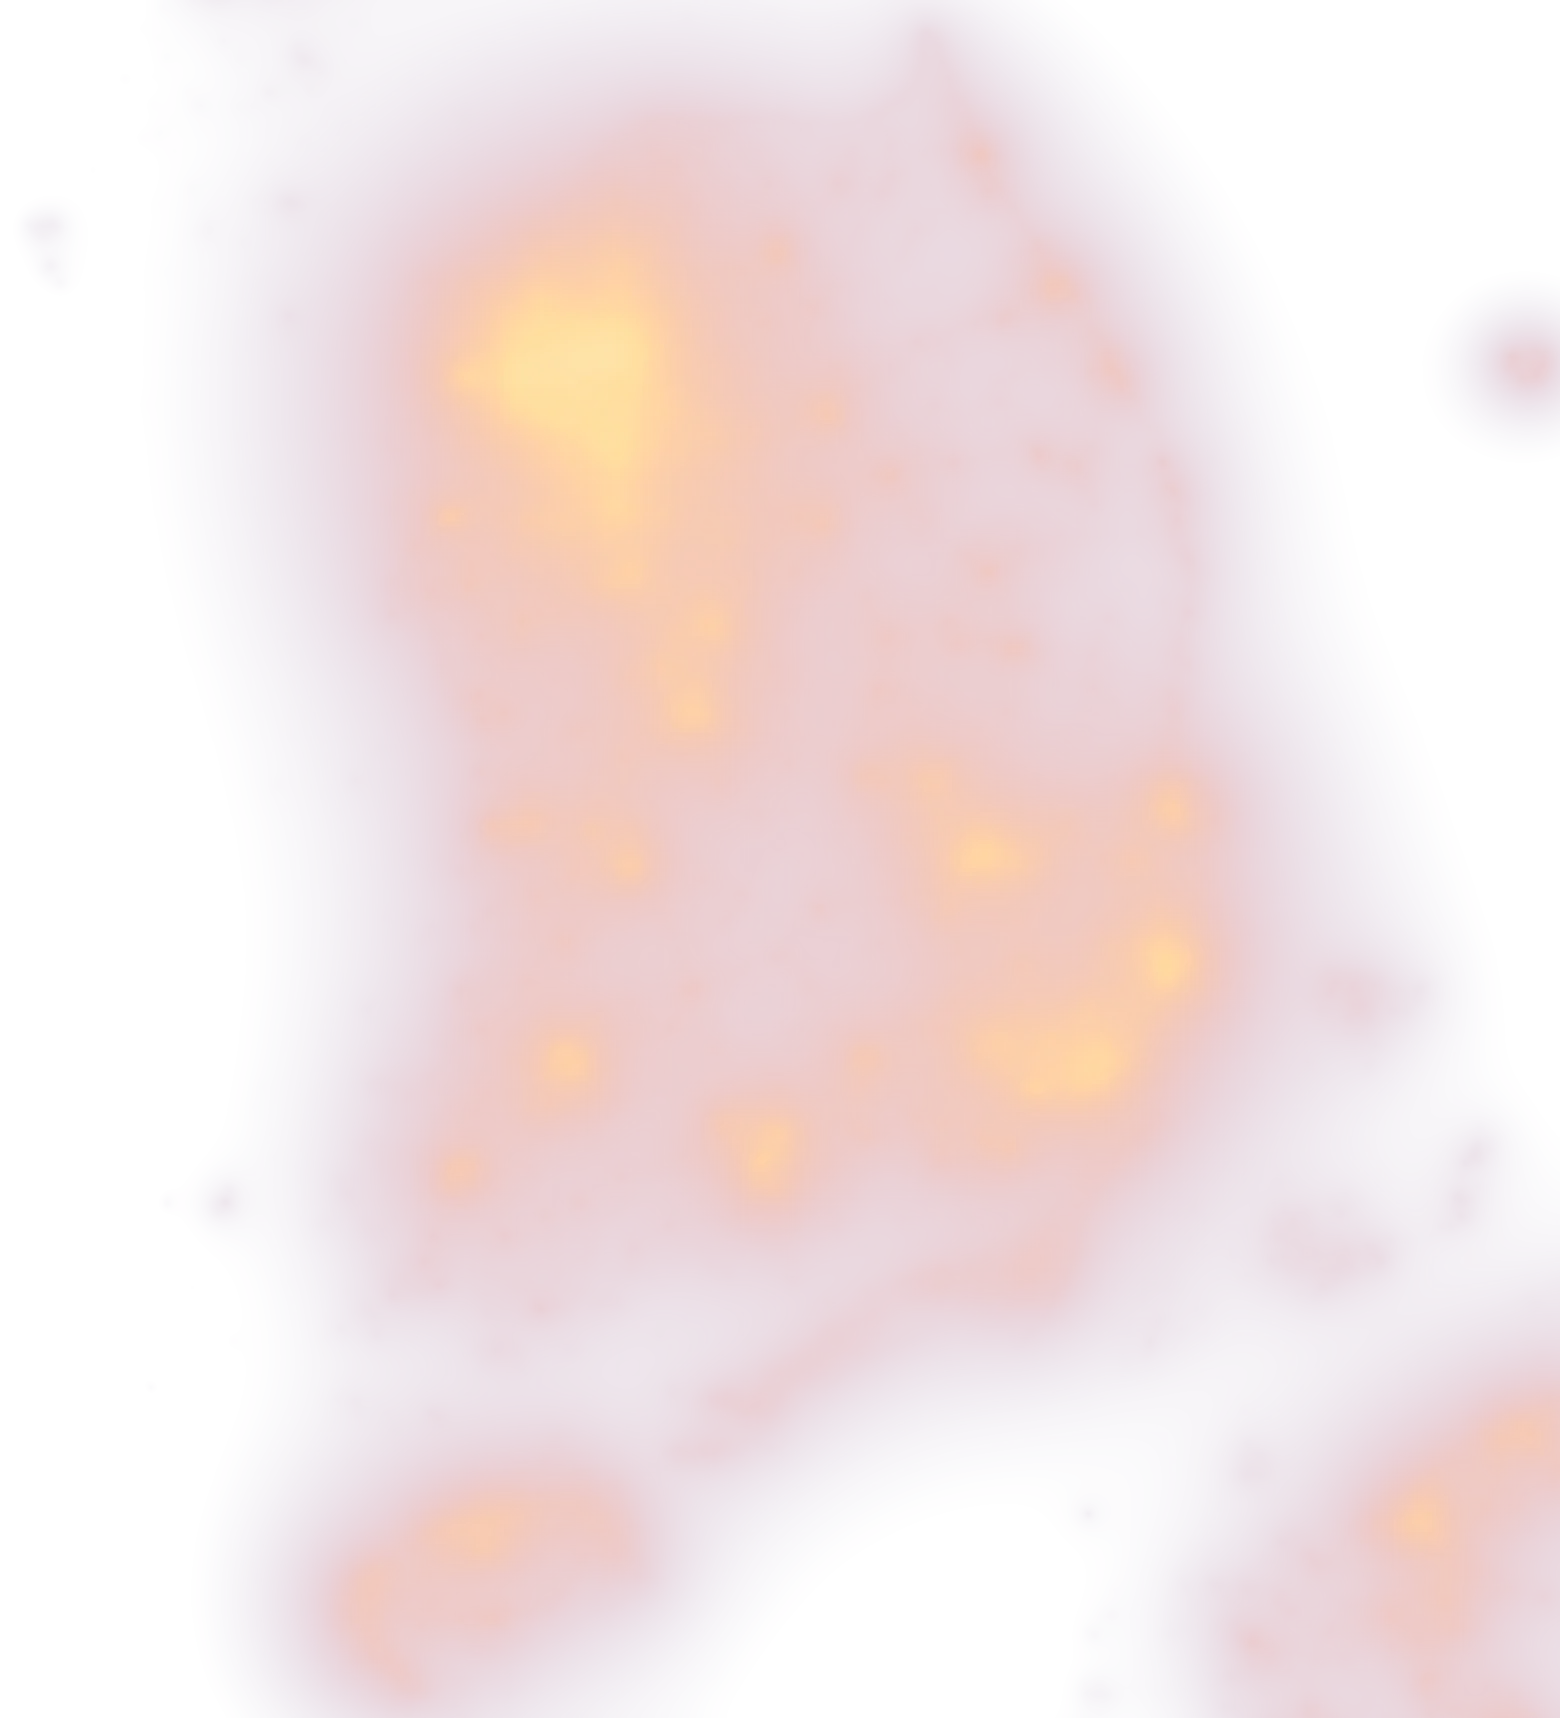
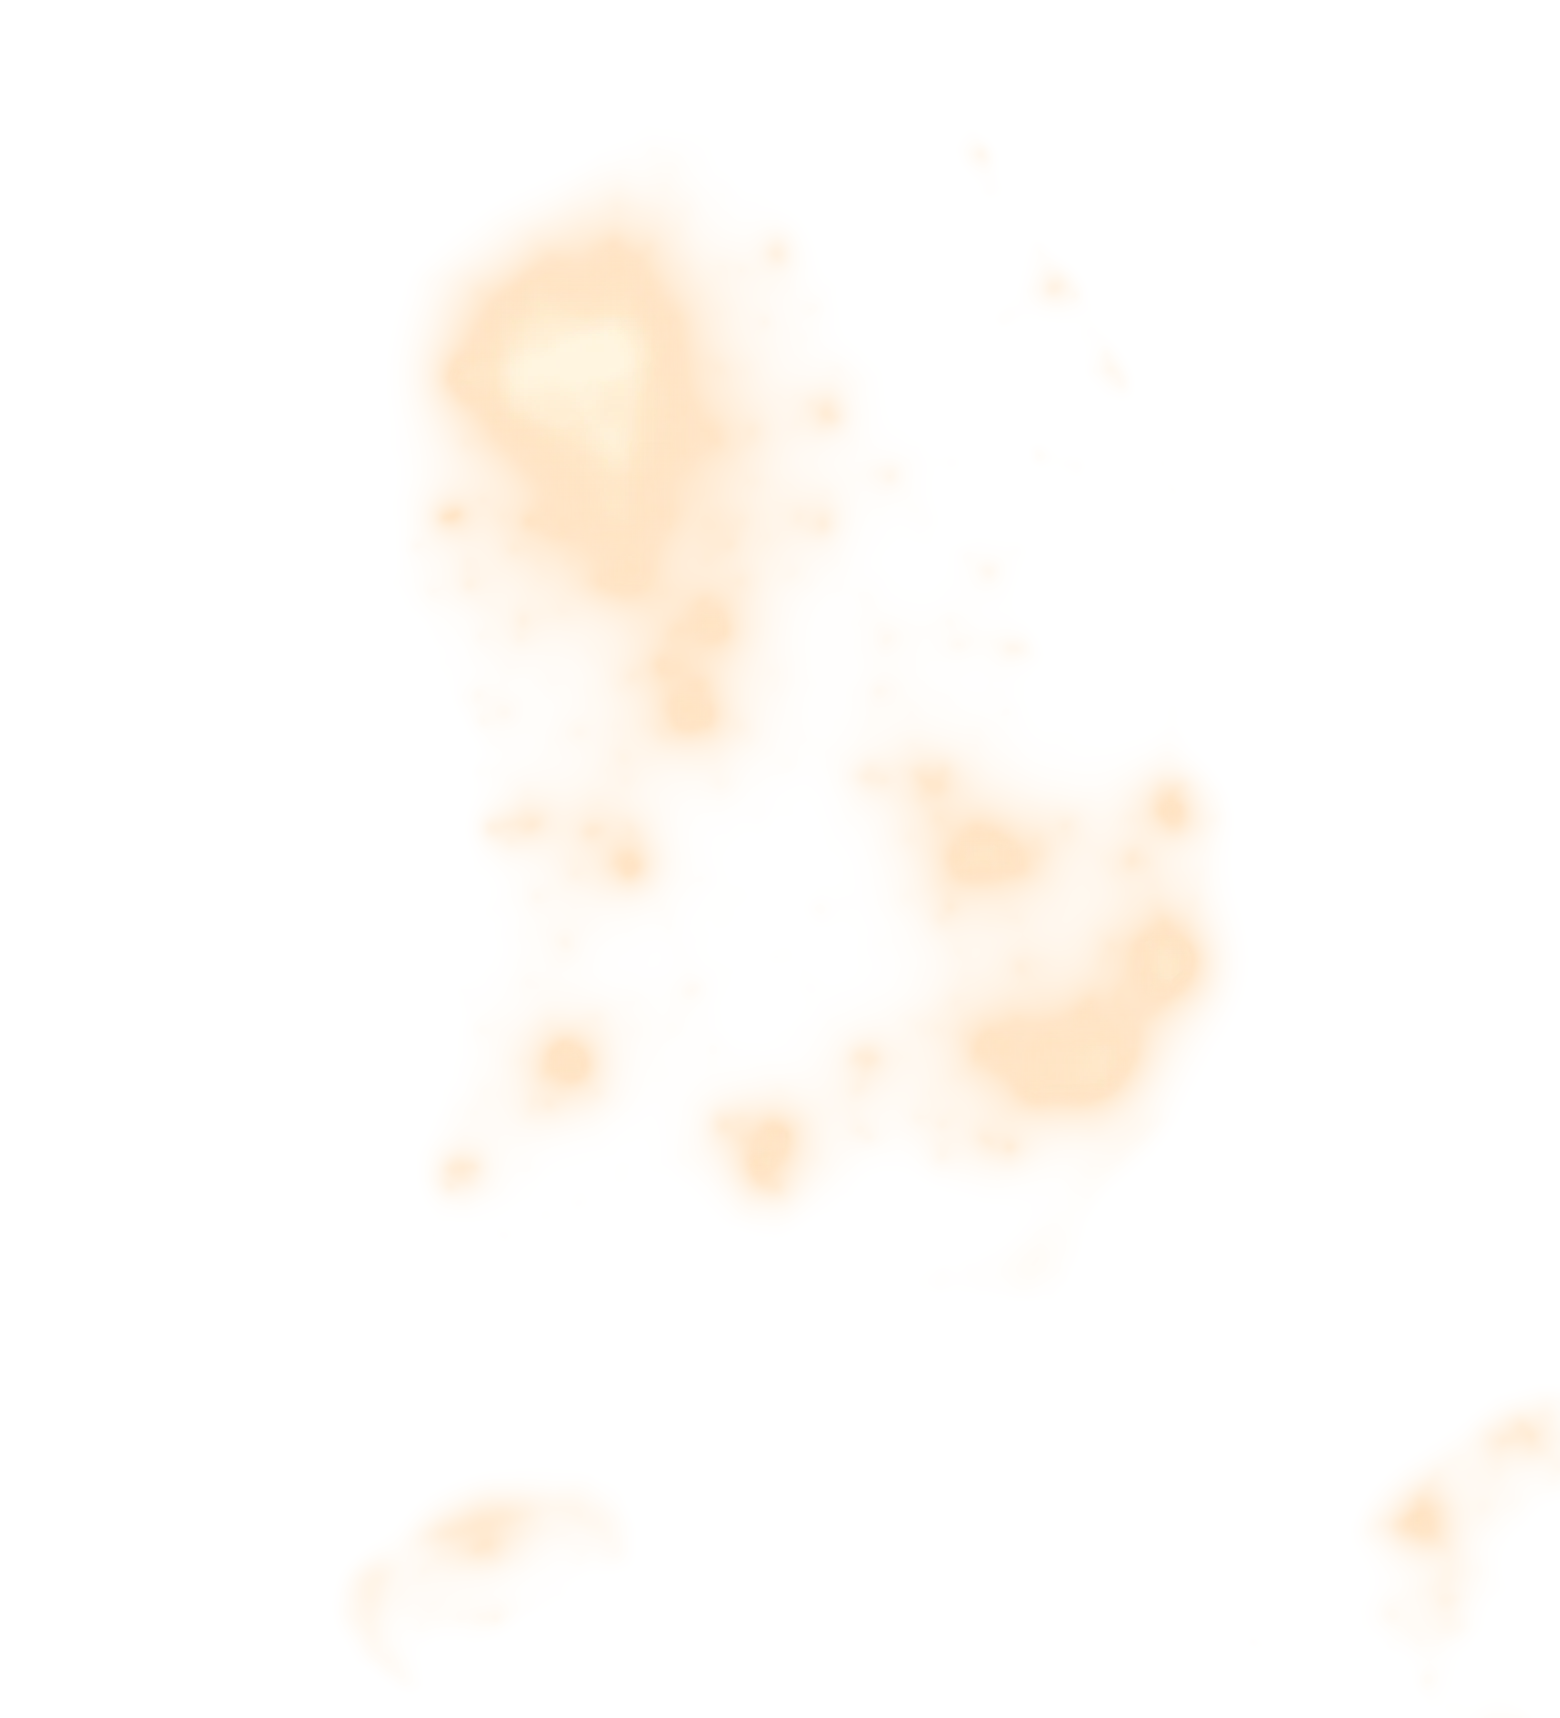
fix: 광해 지도가 뿌옇게 덮이지 않도록 어두운 곳은 비우고 밝은 곳만 빛나게 그린다
- 한국 내륙의 70%가 ALR 2~10이라, 다섯 칸 눈금 그대로 칠하면 국토 전체에 탁한 보라·갈색 막이 덮여 황사처럼 보였다
- ALR 3 아래는 칠하지 않아 어두운 곳은 바탕 지도 그대로 두고, 3에서 60까지를 로그로 펴 불투명도를 1.8제곱으로 올린다
- 색은 예전 불빛 그림처럼 호박색에서 가장 밝은 곳만 흰빛으로 가게 하고, 범례의 은하수 경계를 새 눈금의 자리(40%)로 옮긴다

diff --git a/lib/tonight/sources.ts b/lib/tonight/sources.ts
@@ -174,7 +174,7 @@ export const SOURCES: readonly SourceEntry[] = [
   },
   {
     title: "지도",
-    body: "광해 지도는 장소마다 보여 드리는 하늘 밝기와 같은 계산값으로 별볼일이 직접 그렸어요. 색의 눈금은 장소 카드의 다섯 칸 눈금과 같은 자리를 써요. 하늘 밝기는 둘레 수백 km의 불빛이 하늘에 번진 정도라 지도에서도 넓게 번져 보이고, 산이 가려 주는 불빛은 이 지도에 나오지 않아요. 바탕 지도는 OpenStreetMap 자료로 만든 OpenFreeMap의 지도예요. 구름 레이어는 구름의 모양을 그리지 않고, 고른 시각에 각 장소의 예보 구름량만 색으로 보여줘요.",
+    body: "광해 지도는 장소마다 보여 드리는 하늘 밝기와 같은 계산값으로 별볼일이 직접 그렸어요. 어두운 곳(인공 불빛이 자연의 3배 아래)은 칠하지 않고 비워 둬서, 지도에서 까맣게 남은 곳이 하늘이 어두운 곳이에요. 하늘 밝기는 둘레 수백 km의 불빛이 하늘에 번진 정도라 지도에서도 넓게 번져 보이고, 산이 가려 주는 불빛은 이 지도에 나오지 않아요. 바탕 지도는 OpenStreetMap 자료로 만든 OpenFreeMap의 지도예요. 구름 레이어는 구름의 모양을 그리지 않고, 고른 시각에 각 장소의 예보 구름량만 색으로 보여줘요.",
     links: [
       { label: "VIIRS Nighttime Lights 2024, Earth Observation Group, Payne Institute", url: "https://eogdata.mines.edu/products/vnl/" },
       { label: "OpenFreeMap", url: "https://openfreemap.org/" },

diff --git a/components/tonight/tonight.css b/components/tonight/tonight.css
@@ -2006,12 +2006,12 @@
   /* scripts/render_sky_overlay.py가 출력하는 범례 색. 지도 그림을 다시 만들면 함께 바꾼다 */
   .ramp.night {
     position: relative;
-    background: linear-gradient(90deg, #0b0f22 0%, #111228 20%, #37263b 40%, #7d5551 60%, #cfaf73 80%, #e2dcc7 100%);
+    background: linear-gradient(90deg, #0b0f22 0%, #1d1c27 25%, #4a3b34 50%, #8e765f 75%, #e7ddc9 100%);
   }
-  /* 은하수가 보이지 않게 되는 하늘 밝기(ALR 10). 다섯 칸 눈금의 세 번째 경계라서 60%에 온다 */
+  /* 은하수가 보이지 않게 되는 하늘 밝기(ALR 10)의 자리. 스크립트가 출력하는 값이다 */
   .ramp.night .edge {
     position: absolute;
-    left: 60%;
+    left: 40%;
     top: -3px;
     bottom: -3px;
     width: 1.5px;
@@ -2022,7 +2022,7 @@
   }
   .rl.night .edge-label {
     position: absolute;
-    left: 60%;
+    left: 40%;
     padding-left: 4px;
   }
   .ramp.cloud {

diff --git a/scripts/render_sky_overlay.py b/scripts/render_sky_overlay.py
@@ -6,9 +6,10 @@
 지도의 색과 장소 카드의 하늘 밝기가 같은 값에서 나온다. 형식은 백엔드 저장소의 scripts/lightpollution/export_grid.py에
 적혀 있고, 값은 하늘 전체에서 평균한 인공 불빛이 자연 밤하늘 밝기의 몇 배인지(ALR)다.
 
-색은 lib/tonight/sky.ts의 skyScalePosition과 같은 눈금으로 정한다. 다섯 등급(경계 0.33, 2, 10, 50)에 한 칸씩을 주고
-칸 안에서는 밝기의 로그로 자리를 잡는다. 그래서 장소 카드의 다섯 칸 눈금과 지도의 색이 같은 자리를 가리킨다.
-경계값과 그 출처는 백엔드 저장소 docs/SCORING.md의 "광해" 절에 있다. 색 자체는 보기 좋게 고른 것이다.
+한국 내륙은 70%가 ALR 2~10이라, 그 구간을 옅게라도 칠하면 국토 전체에 뿌연 막이 덮인다. 그래서 ALR 3 아래는 비워
+두고(어두운 곳은 지도 바탕 그대로 어둡다), 3에서 60까지를 로그로 펴서 불투명도를 2제곱에 가깝게 올린다. 빛은 호박색에서
+가장 밝은 곳만 흰빛으로 간다. 이 범위와 곡선은 보기 좋게 고른 그림의 값이고 등급의 경계가 아니다. 등급의 경계는 백엔드
+저장소 docs/SCORING.md의 "광해" 절에 있고, 범례에는 그중 은하수가 보이지 않게 되는 ALR 10의 자리를 표시한다.
 
 MapLibre의 image 소스는 네 귀퉁이 좌표 사이를 웹 메르카토르 평면에서 선형으로 늘린다. 그래서 그림의 세로축은 위도가
 아니라 메르카토르 y에 비례하게 그린다. 범위는 격자의 범위를 그대로 쓰고, 끝에 그 범위를 출력한다.
@@ -62,66 +63,39 @@ value = (log_alr[R, C] * (1 - fx) + log_alr[R, C + 1] * fx) * (1 - fy) \
     + (log_alr[R + 1, C] * (1 - fx) + log_alr[R + 1, C + 1] * fx) * fy
 alr = 10 ** value
 
-# lib/tonight/sky.ts의 눈금. 양 끝 0.05와 250 사이에 등급 경계 넷을 둔다
-EDGES = [0.05, 0.33, 2, 10, 50, 250]
+LOW, HIGH = 3, 60  # 이 사이를 로그로 편다. LOW 아래는 투명, HIGH 위는 가장 진하게
+GAMMA = 1.8
+MAX_OPACITY = 0.9
+WARM = np.array([255, 184, 104], np.float32)
+HOT = np.array([255, 244, 220], np.float32)
 
 
-def scale_position(a):
-    a = np.clip(a, EDGES[0], EDGES[-1])
-    p = np.zeros_like(a)
-    for cell in range(len(EDGES) - 1):
-        low, high = EDGES[cell], EDGES[cell + 1]
-        inside = (a > low) & (a <= high) if cell else (a <= high)
-        p[inside] = (cell + np.log(a[inside] / low) / math.log(high / low)) / (len(EDGES) - 1)
-    return p
+def position(a):
+    return np.clip(np.log(a / LOW) / math.log(HIGH / LOW), 0, 1)
 
 
-def oklch_to_srgb(l, c, h):
-    a, b = c * math.cos(math.radians(h)), c * math.sin(math.radians(h))
-    l_ = (l + 0.3963377774 * a + 0.2158037573 * b) ** 3
-    m_ = (l - 0.1055613458 * a - 0.0638541728 * b) ** 3
-    s_ = (l - 0.0894841775 * a - 1.2914855480 * b) ** 3
-    linear = (
-        4.0767416621 * l_ - 3.3077115913 * m_ + 0.2309699292 * s_,
-        -1.2684380046 * l_ + 2.6097574011 * m_ - 0.3413193965 * s_,
-        -0.0041960863 * l_ - 0.7034186147 * m_ + 1.7076147010 * s_,
-    )
-    gamma = [12.92 * v if v <= 0.0031308 else 1.055 * v ** (1 / 2.4) - 0.055 for v in linear]
-    return [min(255, max(0, round(v * 255))) for v in gamma]
+def color(t):
+    heat = np.clip((t - 0.6) / 0.4, 0, 1)[..., None]
+    return WARM + (HOT - WARM) * heat
 
 
-# 장소 카드의 눈금(components/tonight/gauges.tsx의 DarknessScale)과 같은 두 색 사이를 oklch로 섞고, 가장 밝은 끝은
-# 흰빛으로 보낸다. 색상각은 짧은 쪽으로 돌아서 남보라에서 붉은빛을 지나 호박색이 된다
-STOPS = [(0.0, (0.30, 0.09, 275)), (0.8, (0.90, 0.11, 80)), (1.0, (0.98, 0.035, 90))]
+def opacity(t):
+    return t ** GAMMA * MAX_OPACITY
 
 
-def ramp(p):
-    for (p0, c0), (p1, c1) in zip(STOPS, STOPS[1:]):
-        if p <= p1:
-            t = (p - p0) / (p1 - p0)
-            dh = (c1[2] - c0[2] + 180) % 360 - 180
-            return oklch_to_srgb(c0[0] + (c1[0] - c0[0]) * t, c0[1] + (c1[1] - c0[1]) * t, c0[2] + dh * t)
-    return oklch_to_srgb(*STOPS[-1][1])
-
-
-def opacity(p):
-    # 자연 그대로의 하늘은 비워서 아래 지도가 보이게 하고, 밝아질수록 진하게 덮는다
-    return np.clip((p - 0.1) / 0.75, 0, 1) ** 1.3 * 0.88
-
-
-LUT = np.array([ramp(i / 255) for i in range(256)], np.float32)
-p = scale_position(alr)
-index = np.round(p * 255).astype(int)
-rgba = np.dstack([LUT[index], opacity(p) * 255]).astype(np.uint8)
+t = position(alr)
+rgba = np.dstack([color(t), opacity(t) * 255]).astype(np.uint8)
 Image.fromarray(rgba).save(out, quality=85, method=6)
 
 print(f"{W} x {H}px, 서 {west}, 동 {east:.6g}, 남 {south:.6g}, 북 {north}")
 
-# 범례의 색. 지도 바탕(#0b0f22)에 얹었을 때의 색을 눈금의 여섯 자리에서 뽑는다
+# 범례의 색. 지도 바탕(#0b0f22)에 얹었을 때의 색을 다섯 자리에서 뽑고, ALR 10의 자리를 함께 적는다
 base = np.array([0x0B, 0x0F, 0x22], np.float32)
 stops = []
-for at in (0, 0.2, 0.4, 0.6, 0.8, 1):
-    a = float(opacity(np.array([at]))[0])
-    color = LUT[round(at * 255)] * a + base * (1 - a)
-    stops.append("#%02x%02x%02x %d%%" % (*np.round(color).astype(int), round(at * 100)))
+for at in (0, 0.25, 0.5, 0.75, 1):
+    t = np.array([at], np.float32)
+    a = float(opacity(t)[0])
+    mixed = color(t)[0] * a + base * (1 - a)
+    stops.append("#%02x%02x%02x %d%%" % (*np.round(mixed).astype(int), round(at * 100)))
 print("범례: linear-gradient(90deg, " + ", ".join(stops) + ")")
+print(f"은하수 경계(ALR 10)의 자리: {float(position(np.array([10.0]))[0]) * 100:.0f}%")

diff --git a/README.md b/README.md
@@ -129,9 +129,9 @@ scripts/
 - 바탕 지도는 OpenFreeMap의 공개 스타일(`dark`, `liberty`)이다. 가입이나 키 없이 쓸 수 있고 출처 표기가 필요하다.
   MapLibre가 지도 오른쪽 아래에 "OpenFreeMap © OpenMapTiles Data from OpenStreetMap"을 적는다.
 - 광해 지도는 백엔드 저장소의 하늘 밝기 격자(`skyglow_korea.bin.gz`)를 웹 메르카토르로 그린 이미지다. 밤 추천이
-  장소마다 읽는 값과 같고, 색의 눈금은 장소 카드의 다섯 칸 눈금(`lib/tonight/sky.ts`)과 같다. 격자를 다시 만들면
-  다음을 실행하고, 출력된 범위가 `lib/tonight/night-overlay.ts`와 다르면 그 좌표를, 범례 색이 다르면
-  `tonight.css`의 `.ramp.night`를 함께 바꾼다.
+  장소마다 읽는 값과 같다. ALR 3 아래는 칠하지 않아서 어두운 곳은 바탕 그대로 남는다. 격자를 다시 만들면
+  다음을 실행하고, 출력된 범위가 `lib/tonight/night-overlay.ts`와 다르면 그 좌표를, 범례 색이나 은하수 경계의
+  자리가 다르면 `tonight.css`의 `.ramp.night`를 함께 바꾼다.
 
   ```bash
   python scripts/render_sky_overlay.py <백엔드 저장소>/src/main/resources/skyglow/skyglow_korea.bin.gz public/map/sky-brightness.webp
